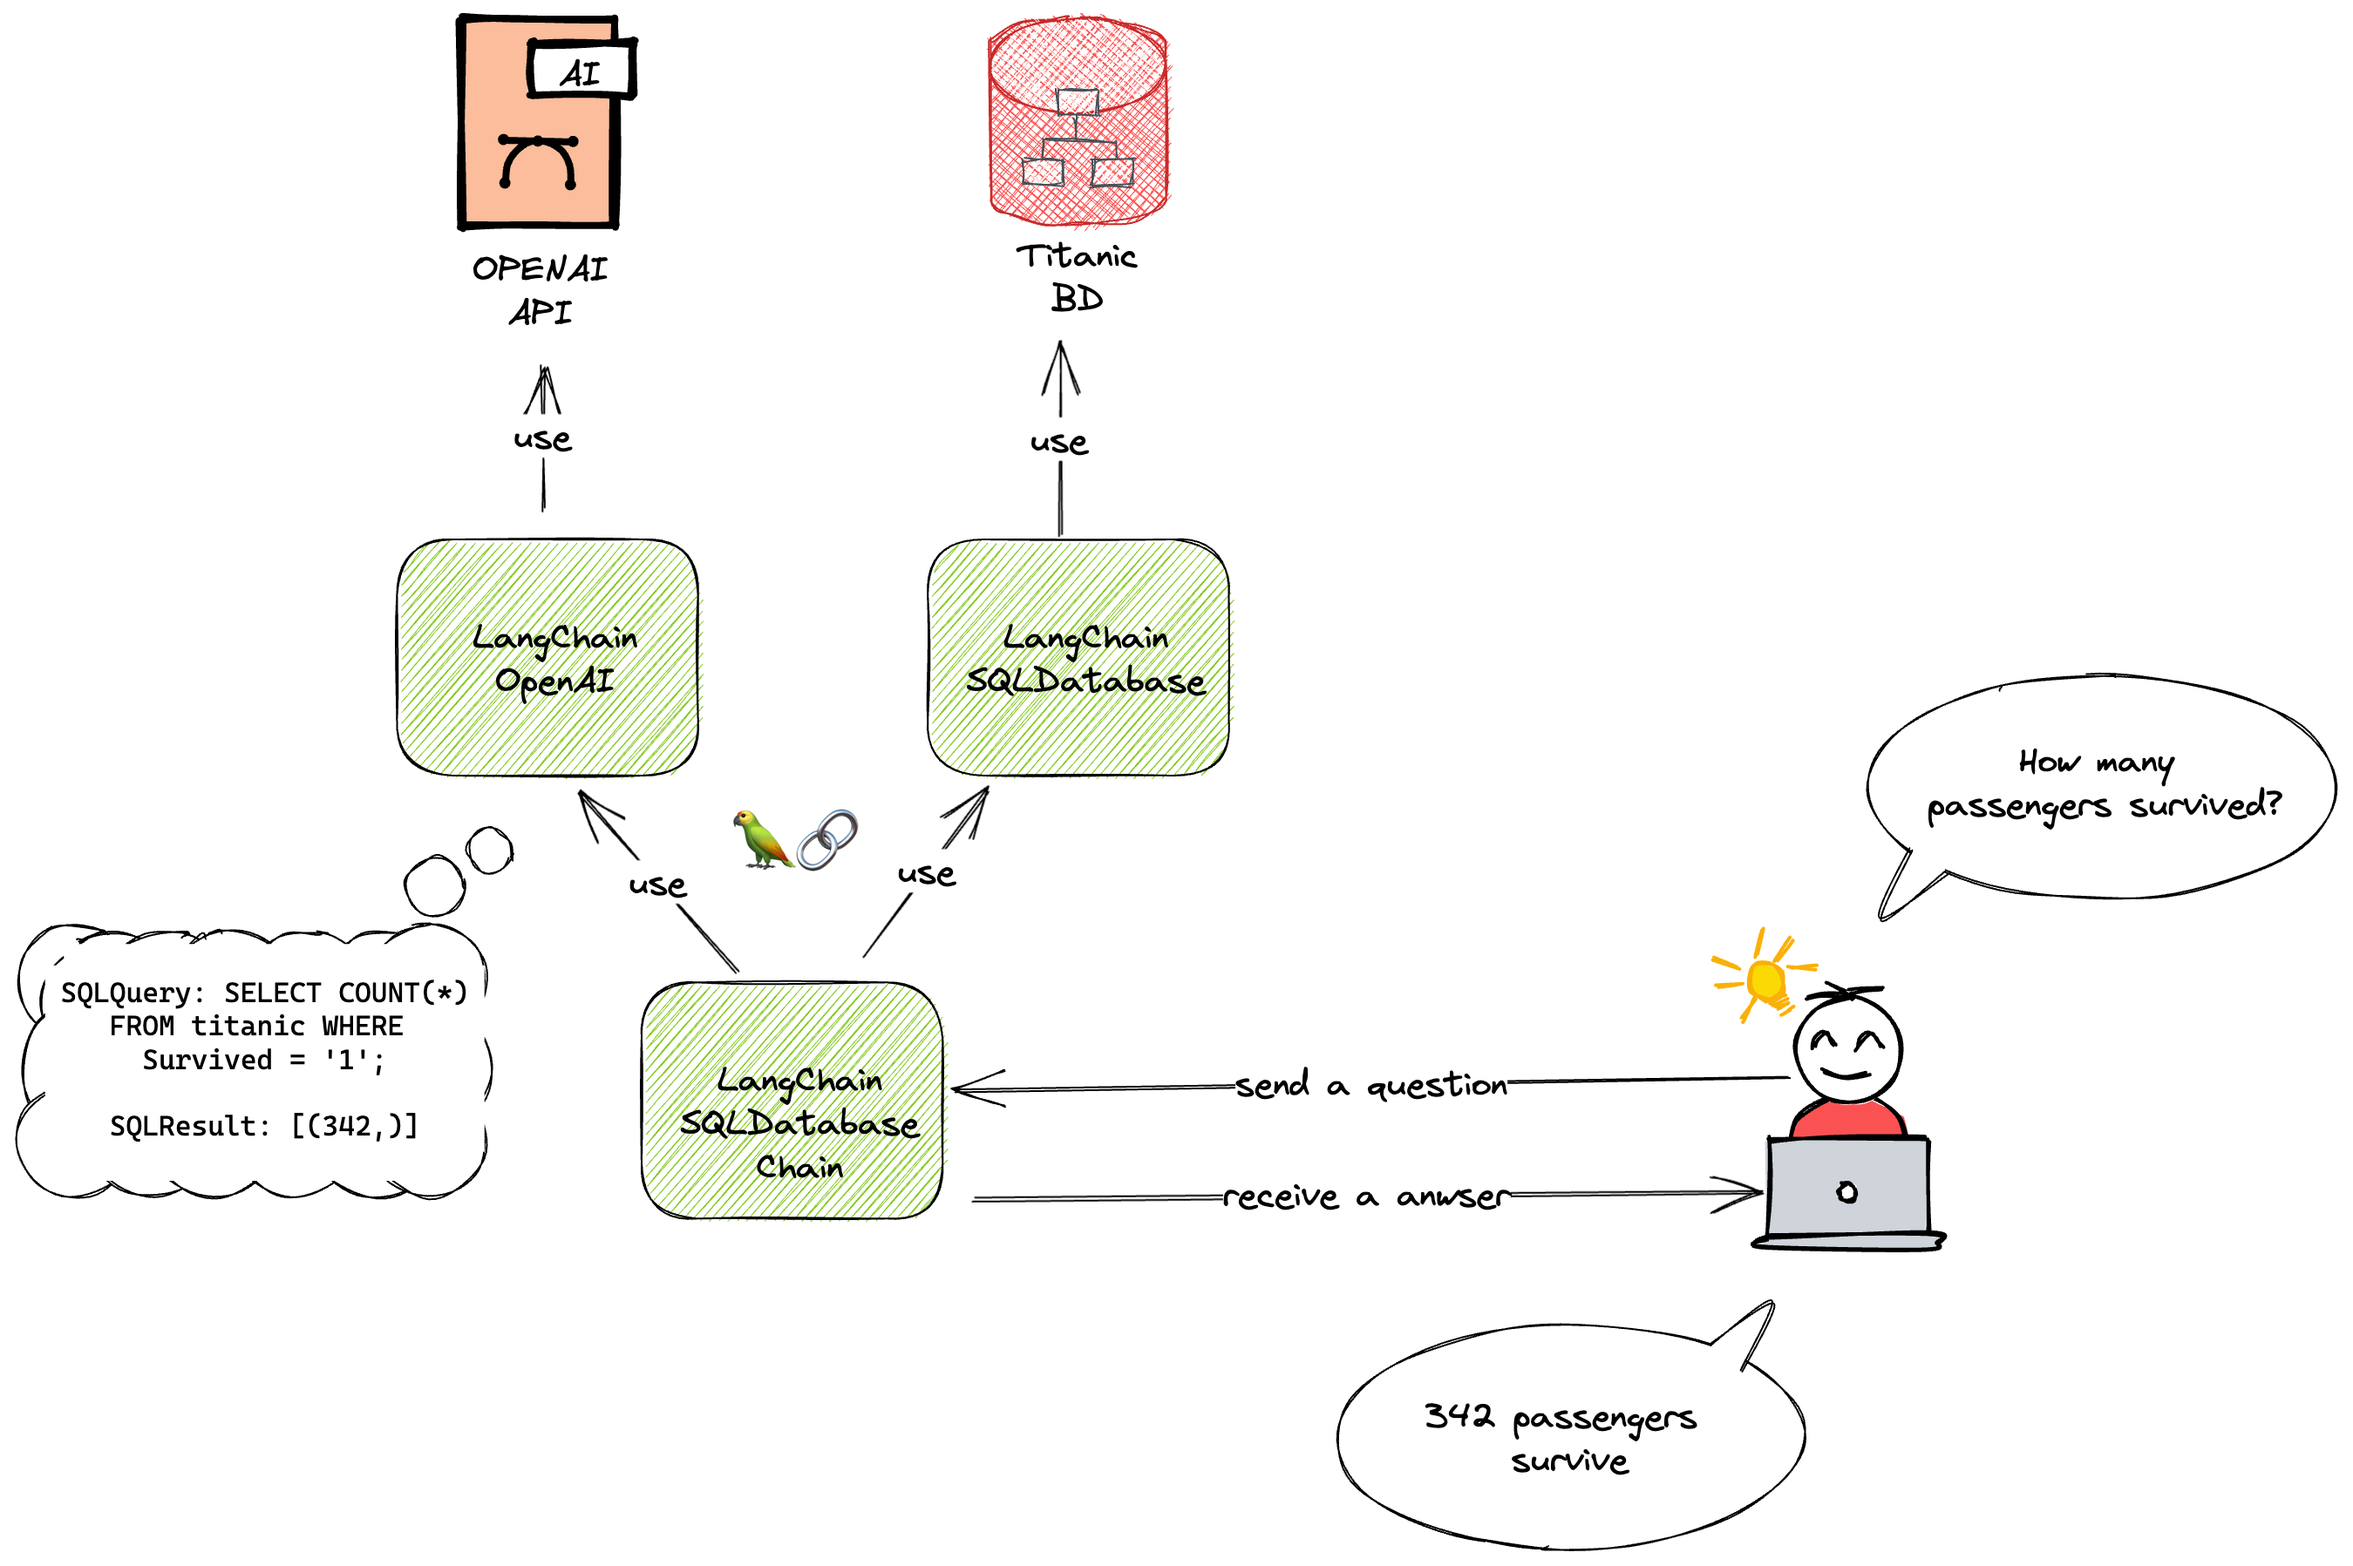
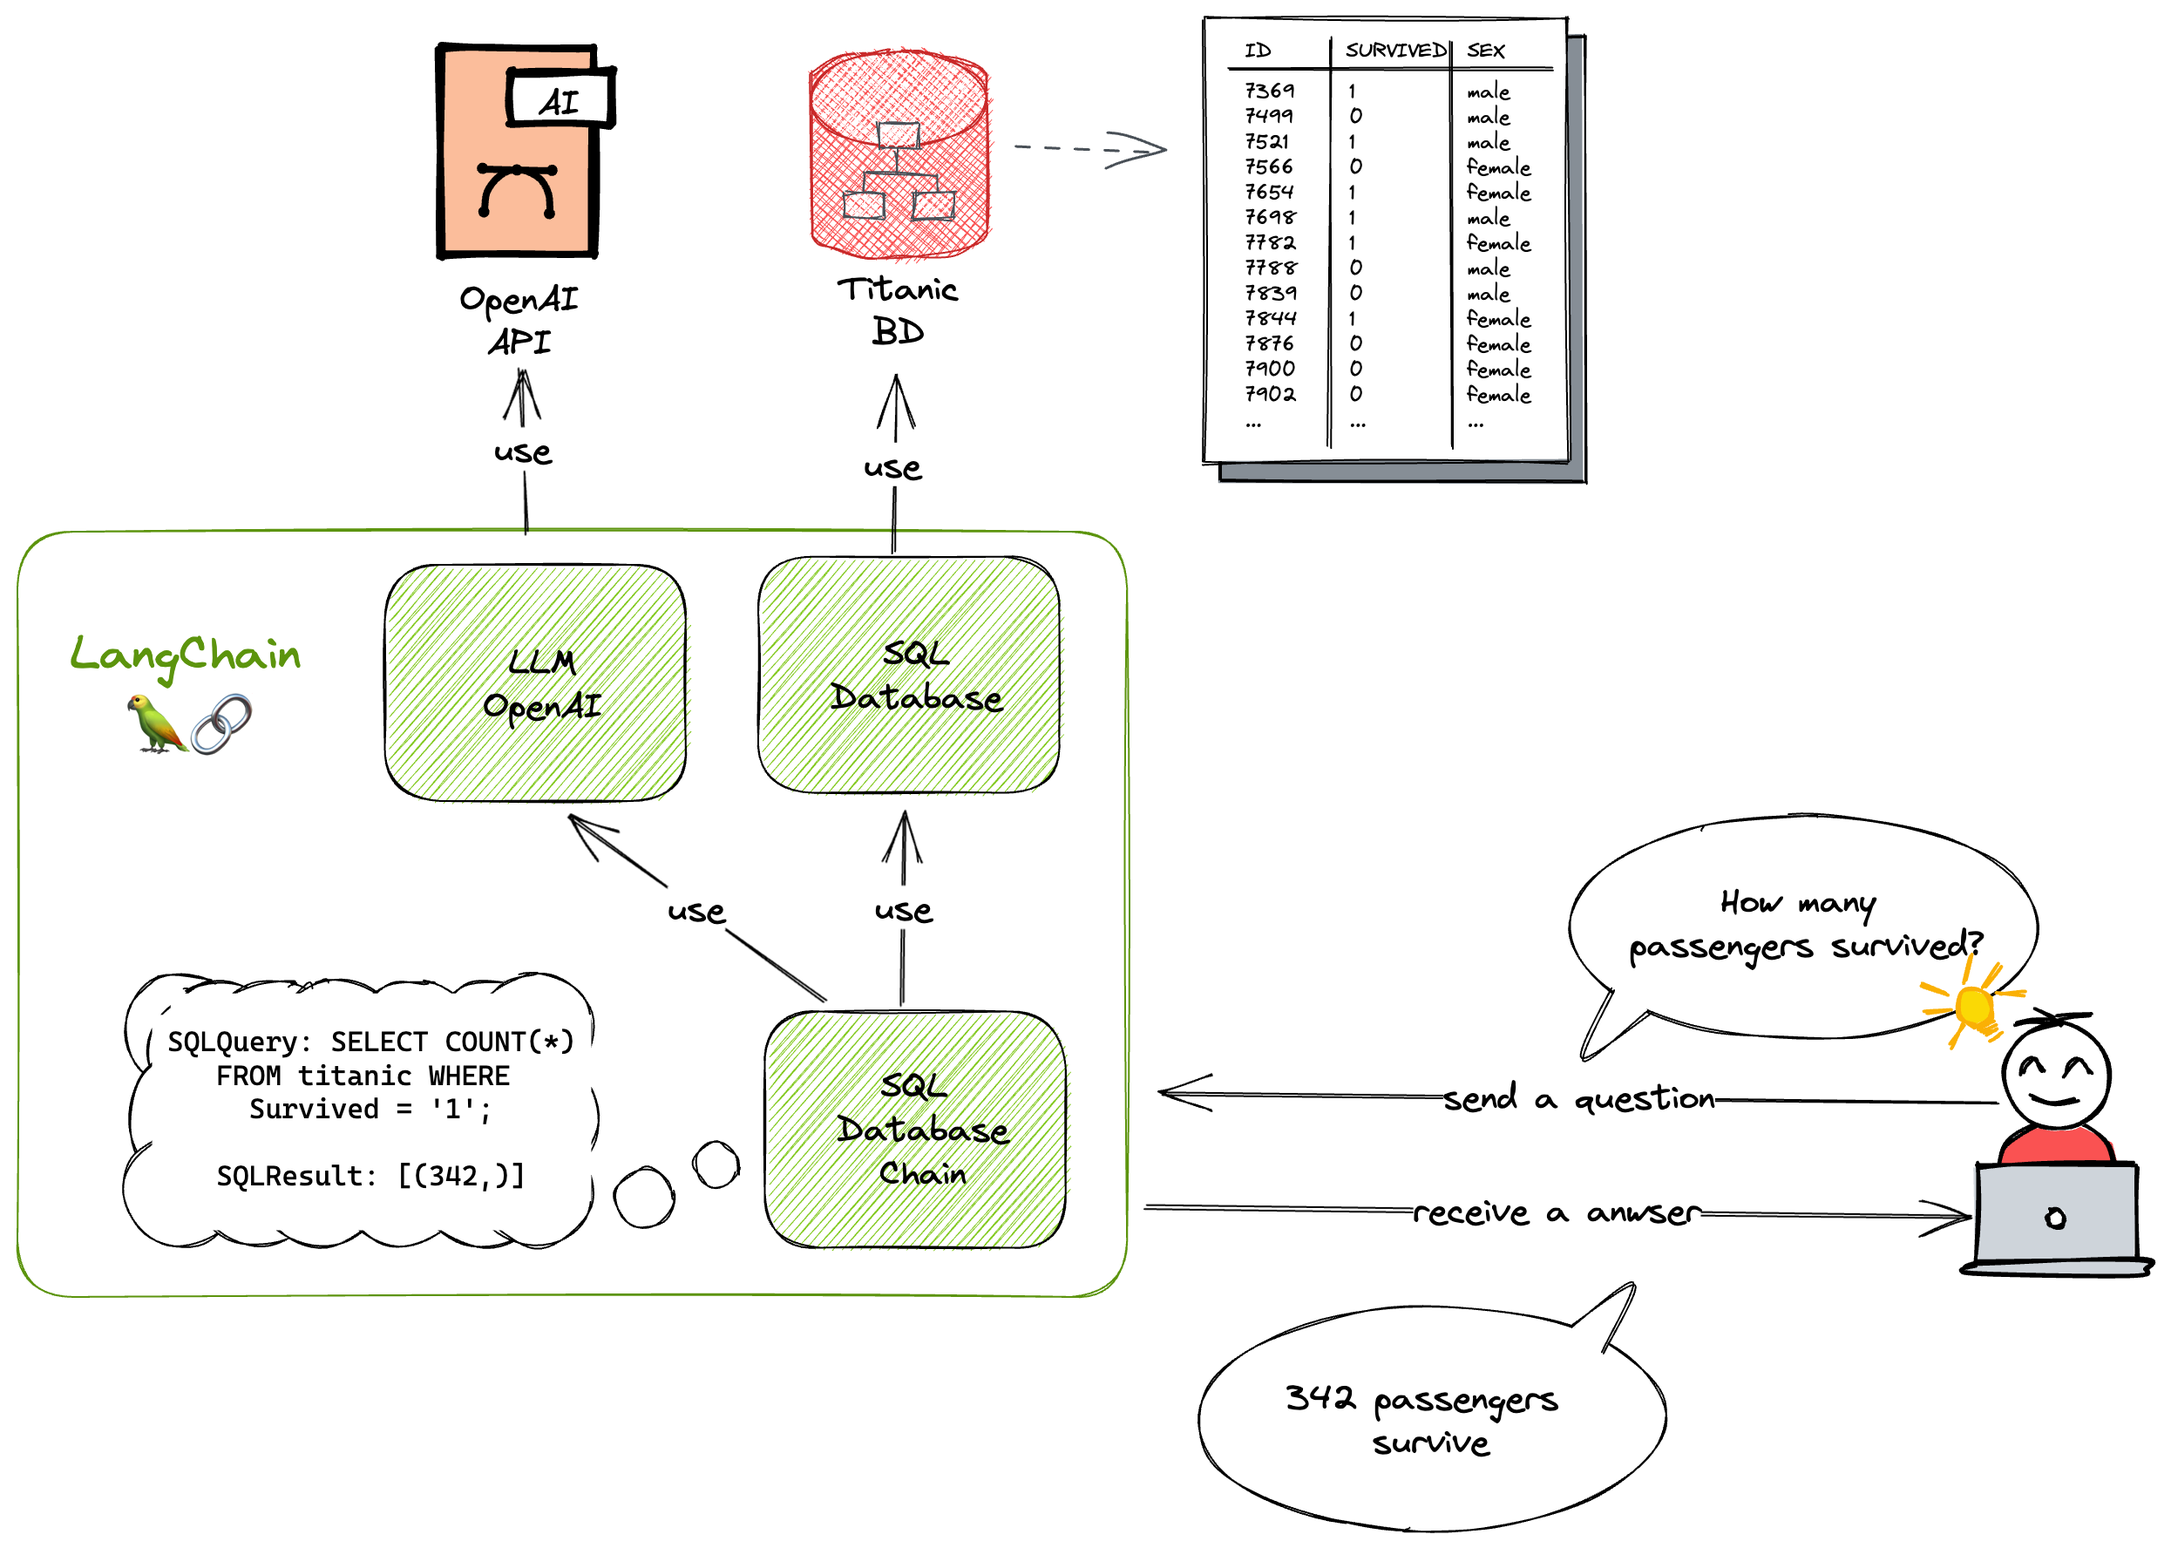
docs: update how-is-it-work image

diff --git a/README.md b/README.md
@@ -2,7 +2,7 @@
 
 ## Description
 
-The main goal of both projects is to research about the LangChain library and the API of OpenAI using the Titanic SQLite database.
+The main goal of this project is to research about the [LangChain](https://python.langchain.com/) library and the [API of OpenAI](https://openai.com/blog/openai-api) using the Titanic SQLite database.
 
 ![How Is It Work?](how-is-it-work.png)
 
@@ -12,6 +12,7 @@ The main goal of both projects is to research about the LangChain library and th
   The total cost of the research was $0.36.
 - Then, the [LangChain](https://python.langchain.com/) library allows me to connect the OpenAI API and the Titanic Database in a very simple way.
 - Finally, [Next.js](https://nextjs.org/) let me create a simple web application that allows the final user to interact with the database in a natural language.
+- I made a similar approach with a [Jupyter Notebook](https://github.com/brunogarcia/langchain-titanic-sqlite).
 
 ## Database
 
@@ -58,8 +59,8 @@ The app and the notebook are able to answer the following questions in natural l
 ### Example #2: How many passengers were in each class?
 
 ```html
-There were 216 passengers in first class, 184 passengers in second class, and 491 passengers in
-third class.
+There were 216 passengers in first class, 184 passengers in second class, and
+491 passengers in third class.
 ```
 
 ## Run on development mode
